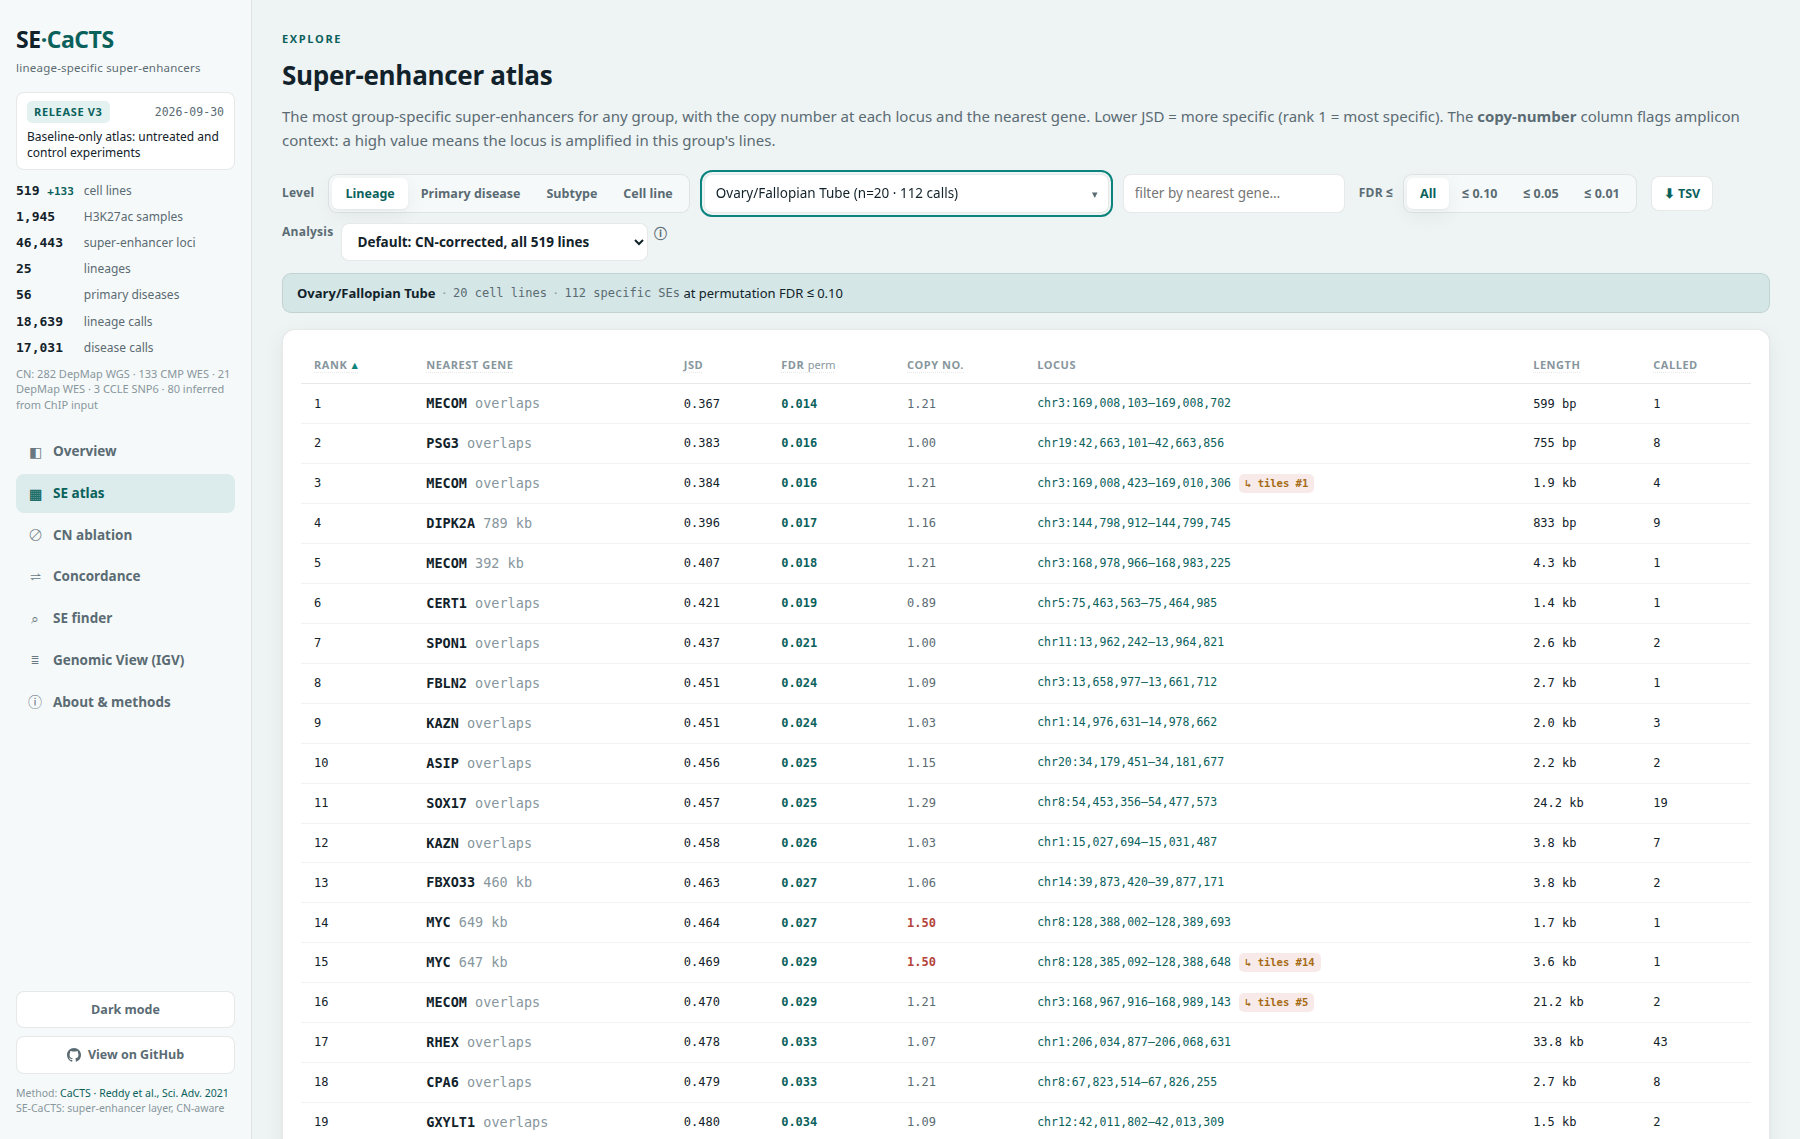
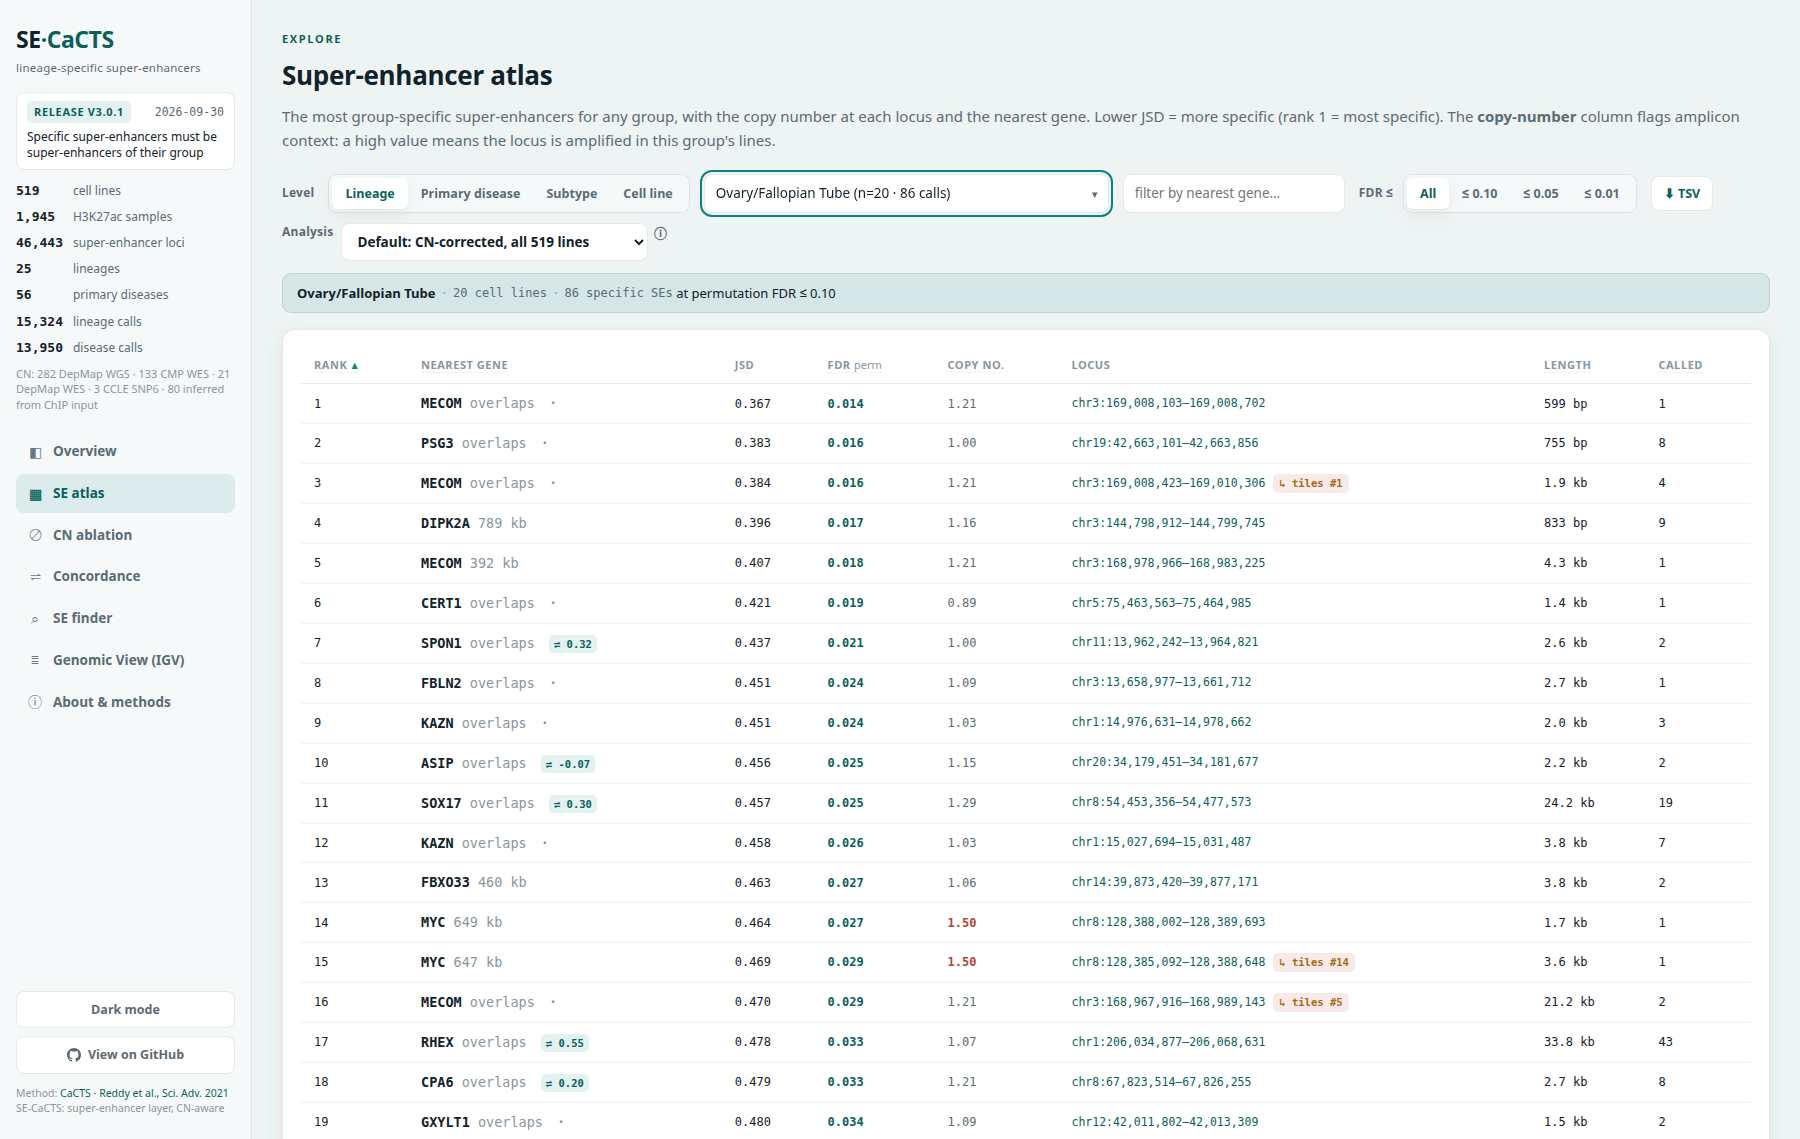
README: v3.0.1 numbers (a specific SE must be an SE of its group) and screenshots

diff --git a/README.md b/README.md
@@ -18,18 +18,22 @@ epigenomic analog of what CaCTS does for master transcription factors.*
 | **2,422** | untreated or control H3K27ac experiments | from ChIP-Atlas, plus SRA data it lacks run through its own v1 pipeline |
 | **46,443** | union super-enhancer loci | in the scored, QC-gated catalogue |
 | **519** | cancer cell lines | after QC, each with copy number, across **25** Oncotree lineages and **56** primary diseases |
-| **18,639** | lineage-specific super-enhancers | in **25 of 25** lineages, at a calibrated permutation FDR ≤ 0.10 |
-| **17,031** | disease-specific super-enhancers | in **54 of 56** primary diseases, same threshold |
+| **15,324** | lineage-specific super-enhancers | in **24 of 25** lineages, at a calibrated permutation FDR ≤ 0.10, each a super-enhancer in its own lineage |
+| **13,950** | disease-specific super-enhancers | in **49 of 56** primary diseases, same rule |
 
 The scored atlas is the QC-gated arm: **1,945** of those experiments, over **46,443** loci, collapsed to
 the 519 cell lines above. Copy number comes from DepMap WGS for 282 lines, Cell Model Passports WES for 133,
 DepMap WES for 21 and CCLE SNP6 for 3, and is inferred from ChIP input for 80 (a weaker correction; the
-dashboard's Analysis selector shows the atlas without those lines). This is the **v3** atlas (2026-09-30):
+dashboard's Analysis selector shows the atlas without those lines). This is the **v3.0.1** atlas (2026-09-30):
 **baseline only**, meaning drug-treated, knocked-down and otherwise perturbed experiments, input controls and
 other marks were removed after every experiment's GEO record was read. The v2 atlas (386 lines, treated
 experiments included) is kept in `phase2/results_v2/` and `phase2/scores_v2/`; 87.8% of its lineage calls
 reappear in v3, and no quality measure degraded (calibration, expression concordance, master-regulator
-recovery: 20 of 22 in their own lineage).
+recovery). **v3.0.1** adds a rule: a specific locus must also be a super-enhancer in its group, i.e. at least one
+experiment of the lineage, disease or line calls a super-enhancer overlapping it
+(`phase2/scripts/74_called_filter.py`). Scoring measures signal at every locus any experiment calls, so before
+this 18% of lineage calls and 74% of per-line calls were loci where the group had the most H3K27ac but called no
+super-enhancer. Master regulators found in their own lineage: 19 of 22 (HNF4A drops out).
 
 ---
 
@@ -118,13 +122,13 @@ can be picked up cold.
 - **The negative controls are the convincing part** (v1 panel): six triple-negative breast lines bury ESR1
   at ranks 11,000–21,000, while lobular carcinoma (near-always ER+) gives ESR1 #22. The method was never
   told which lines were ER+.
-- **Copy-number correction validates itself twice.** It removes 1,015 calls, 72% of them at amplified
-  loci and led by recurrent amplicons found unprompted: MYCN in neuroblastoma (CN 71×, with co-amplified
-  DDX1), MYC and POU5F1B at 8q24, OTX2. It also **rescues** 9,585 copy-neutral calls (median CN 1.00) that
-  amplicon spikes were hiding in the permutation null: +28% at lineage level, twice as many at disease
+- **Copy-number correction validates itself twice.** At lineage and disease level it removes 1,498 calls,
+  61% of them at amplified loci and led by recurrent amplicons found unprompted: MYCN in neuroblastoma (CN 47×,
+  with co-amplified DDX1), MYC and POU5F1B at 8q24, OTX2. It also **rescues** 6,935 copy-neutral calls (median
+  CN 1.01) that amplicon spikes were hiding in the permutation null: +12% at lineage level, +37% at disease
   level. (v1's "67 → 6,790" at lineage level was a BH threshold effect; see `RESULTS.md`.)
 - **An independent layer agrees.** Genes beside a group-specific SE are themselves specific to that same
-  group in DepMap expression at **16.0%** vs a 4.27% background (**3.7×**) at lineage level (5.2× at
+  group in DepMap expression at **15.3%** vs a 4.12% background (**3.7×**) at lineage level (5.1× at
   disease level), decaying monotonically with SE→gene distance while a group-shuffled control stays flat.
   On v1 this rate roughly **doubled** on the permutation-filtered set versus the analytic one, independent
   evidence that the permutation FDR removes noise rather than signal.
